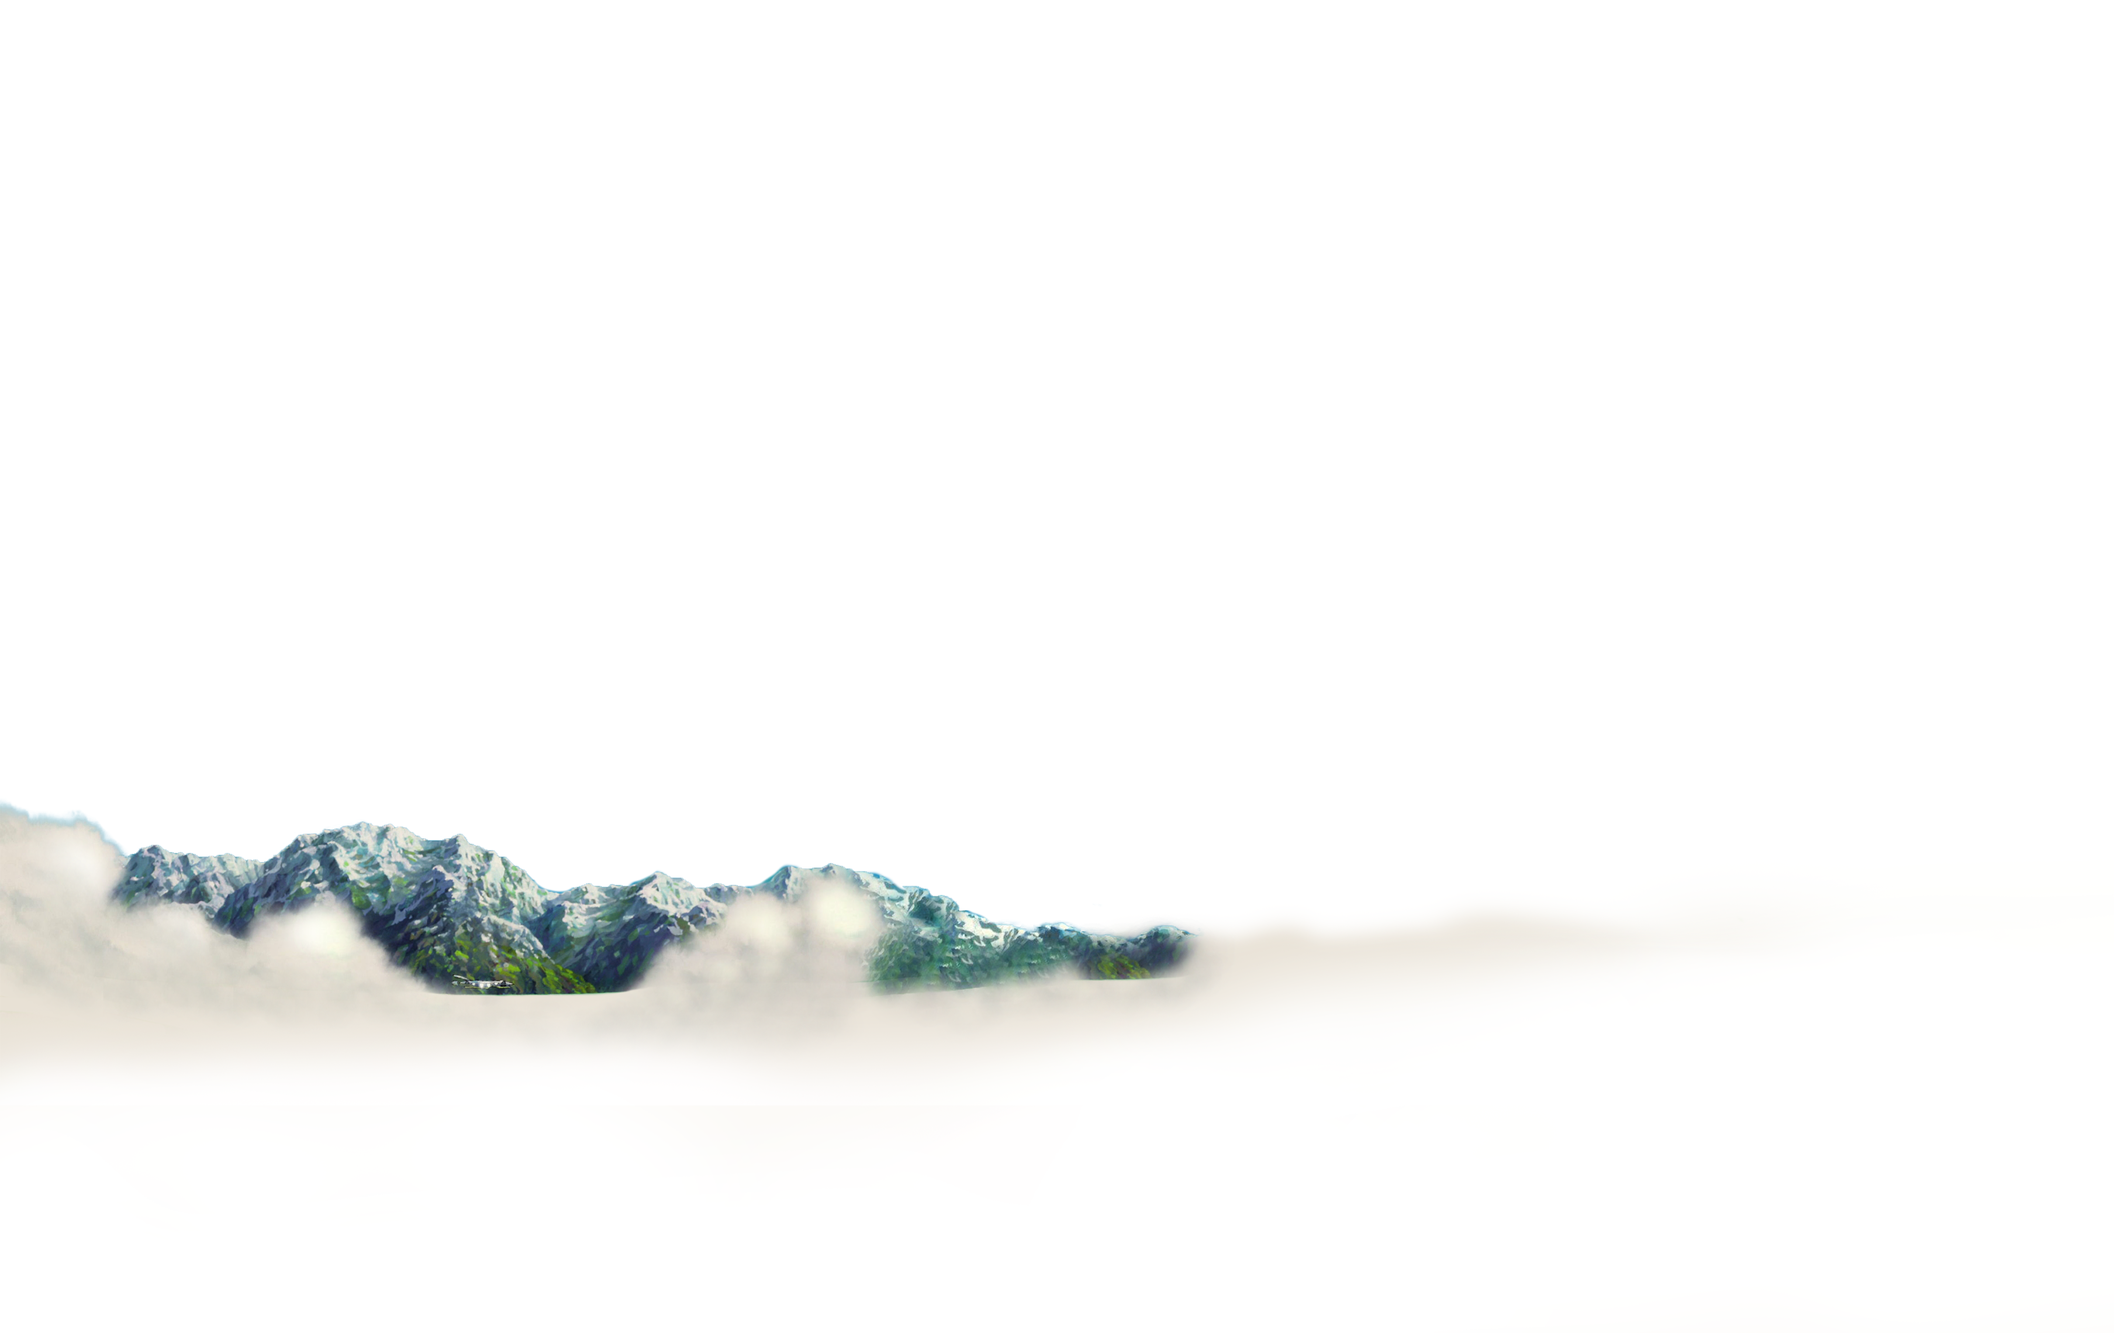
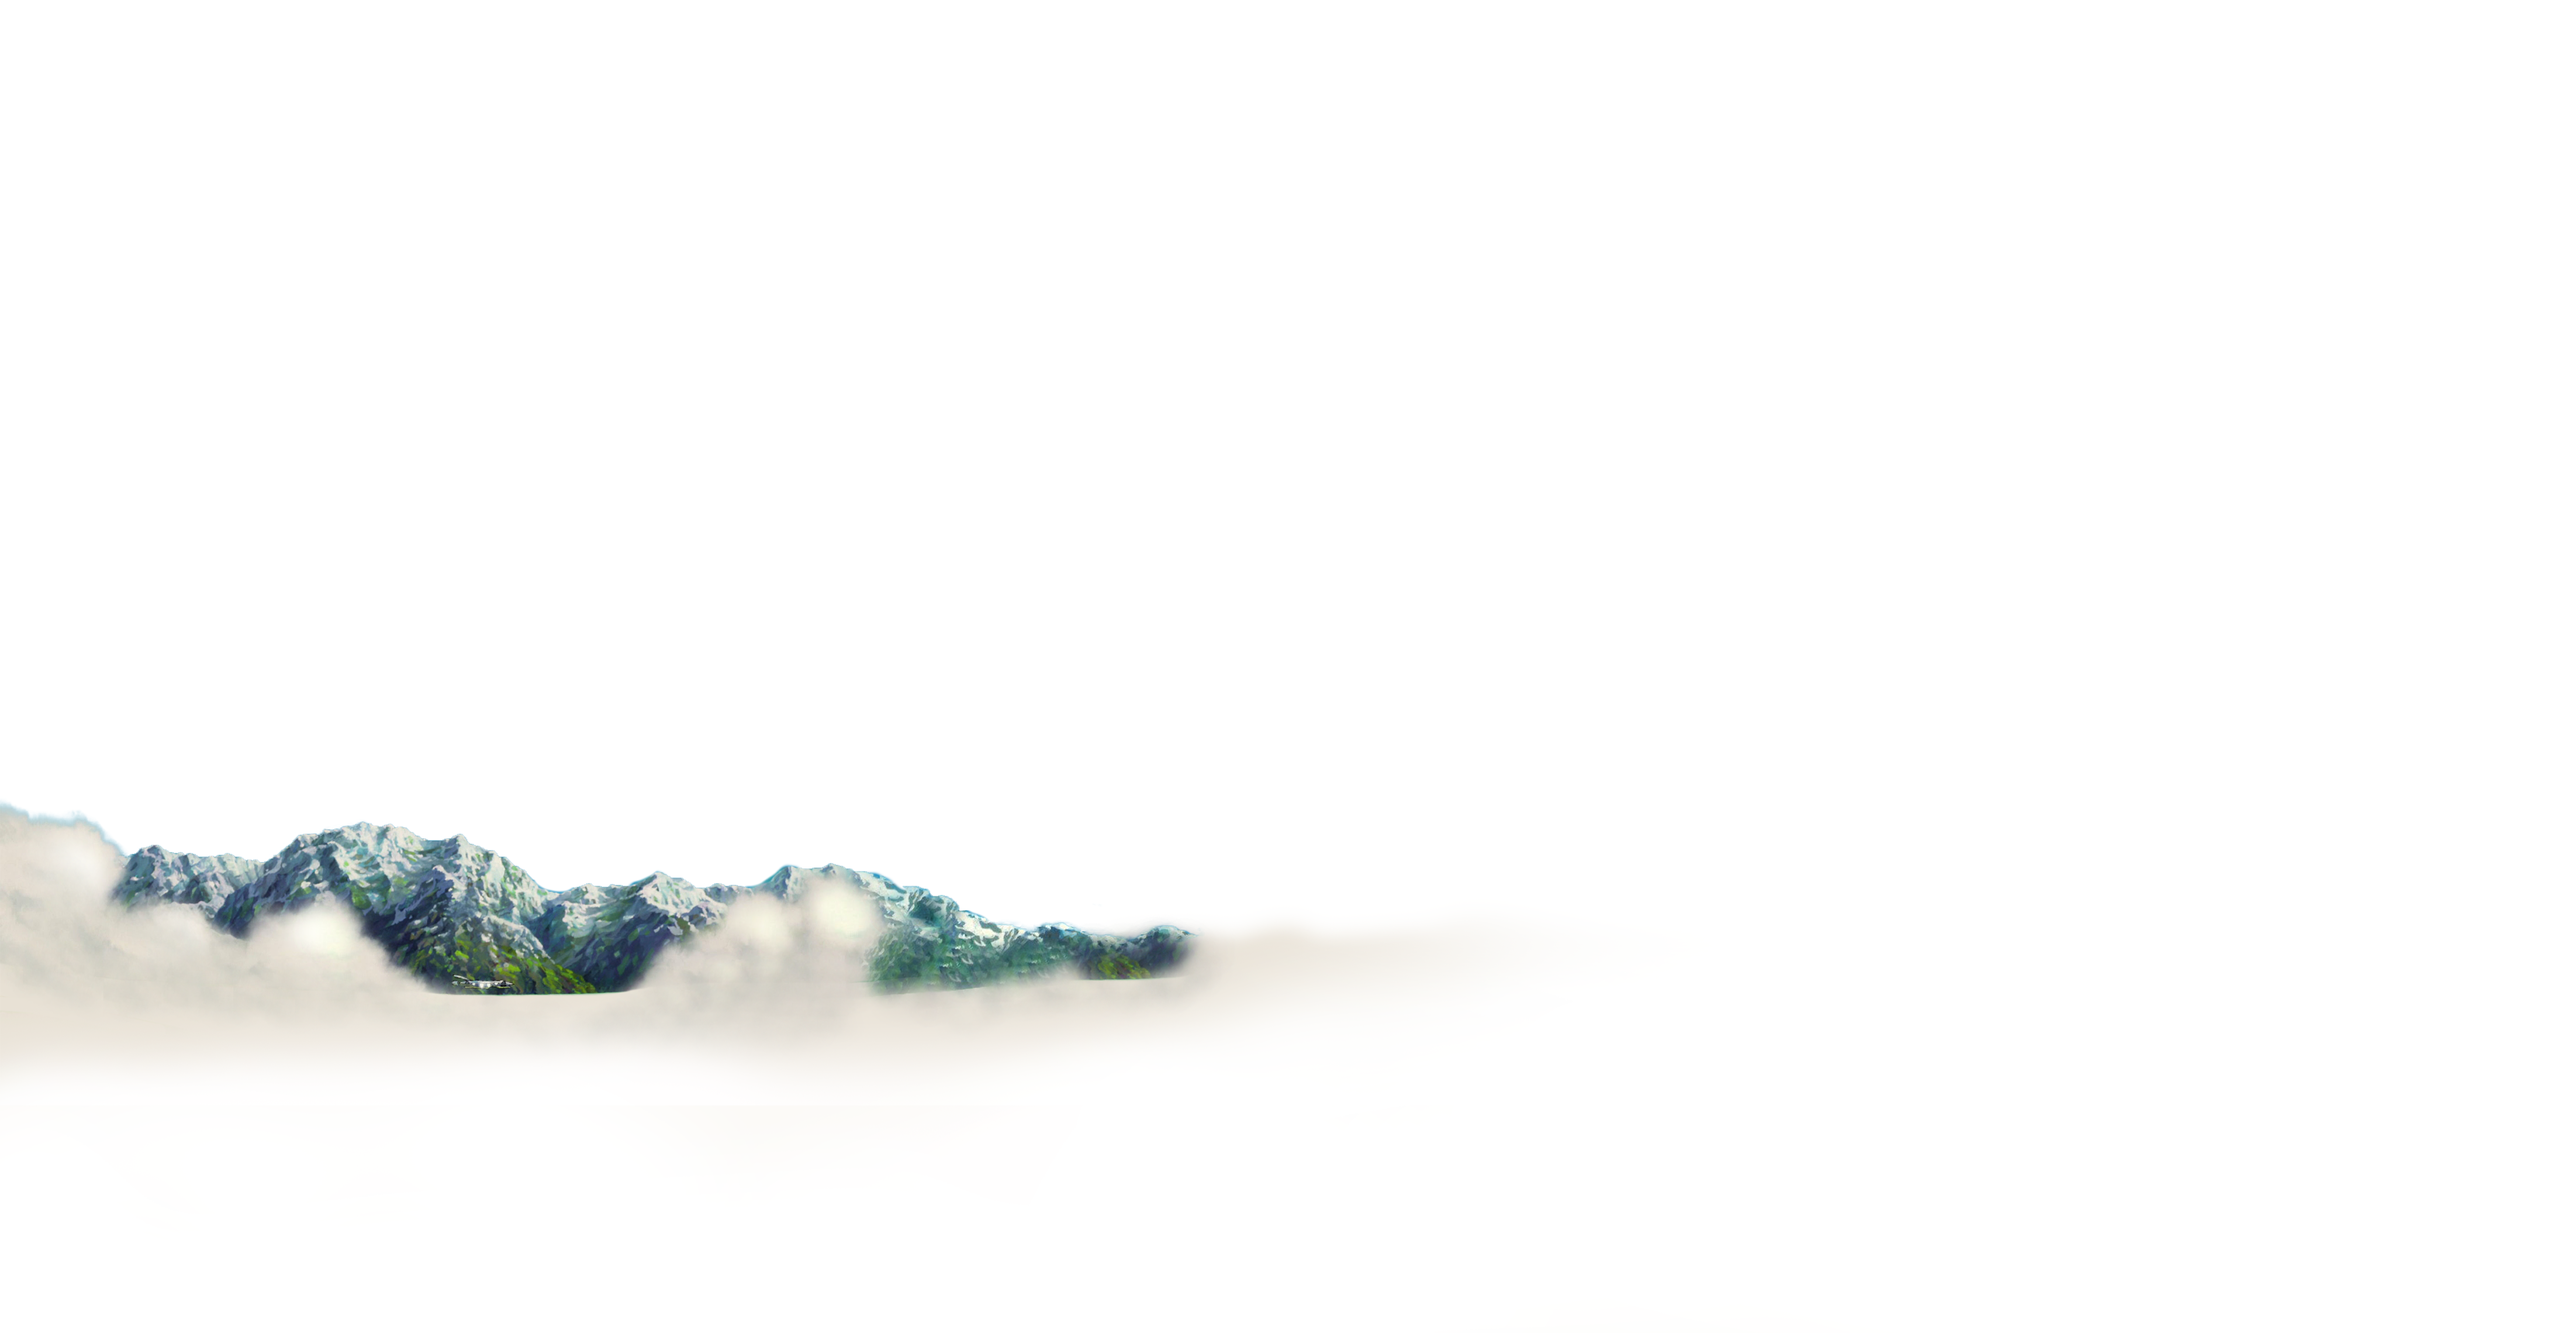
complete site responsive resize

Changed region(s): [[0.0312, 0.5933, 0.7478, 0.7806]]

diff --git a/portfolio/src/components/EducationStepper.tsx b/portfolio/src/components/EducationStepper.tsx
@@ -1,4 +1,4 @@
-import { Box, Stepper, Step, StepLabel, Typography, StepContent, Button, Paper, List } from "@mui/material";
+import { Box, Stepper, Step, StepLabel, Typography, StepContent, Button, Paper, List, Grid } from "@mui/material";
 import { useState } from "react";
 import { getDetails } from "../data/about";
 import FiberManualRecordIcon from '@mui/icons-material/FiberManualRecord';
@@ -78,36 +78,36 @@ function EducationStepper() {
                 })
                 : ""}
 
-              <Box sx={{ mb: 2 }}>
-                <Box style={{ display: "flex", justifyContent: "space-between", flexDirection: "row", alignItems: "center" }}>
-                  <Box>
-                    <Button
-                      className="gradient-background"
-                      variant="contained"
-                      onClick={index === about[0].education.length - 1 ? handleReset : handleNext}
-                      sx={{ mt: 1, mr: 1, color: "#fff", fontWeight: "200" }}
-                    >
-                      {index === about[0].education.length - 1 ? 'Reset' : 'Show Me More'}
-                    </Button>
-                    <Button
-                      disabled={index === 0}
-                      onClick={handleBack}
-                      sx={{ mt: 1, mr: 1, color: "#fff" }}
-                    >
-                      {index === about[0].education.length - 1 ? '' : 'Back'}
-                    </Button>
-                  </Box>
+              <Grid container xs={12} style={{ display: "flex", justifyContent: "space-between", flexDirection: "row", alignItems: "center", marginBottom: 10 }}>
+                <Grid item>
+                  <Button
+                    className="gradient-background"
+                    variant="contained"
+                    onClick={index === about[0].education.length - 1 ? handleReset : handleNext}
+                    sx={{ mt: 1, mr: 1, color: "#fff", fontWeight: "200"}}
+                  >
+                    {index === about[0].education.length - 1 ? 'Reset' : 'Show Me More'}
+                  </Button>
+                  <Button
+                    disabled={index === 0}
+                    onClick={handleBack}
+                    sx={{ mt: 1, mr: 1, color: "#fff" }}
+                  >
+                    {index === about[0].education.length - 1 ? '' : 'Back'}
+                  </Button>
+                </Grid>
 
+                <Grid item>
                   <Typography
-                    color="#fff"
                     sx={{
+                      color: { xs: "rgba(255, 255, 255, 0.3)", md: "#fff" },
                       paddingTop: "8px",
                       fontSize: "14px",
                       fontFamily: "ChakraPetch Light",
                     }}
                   >{step.year}</Typography>
-                </Box>
-              </Box>
+                </Grid>
+              </Grid>
             </StepContent>
           </Step>
         ))}

diff --git a/portfolio/src/routes/about.tsx b/portfolio/src/routes/about.tsx
@@ -97,7 +97,7 @@ function About() {
                           color="#fff"
                           sx={{
                             padding: "35px 0 0 0",
-                            fontSize: "70px",
+                            fontSize: { xs: "40px", md: "70px" },
                             float: "right",
                             fontFamily: "ChakraPetch Bold"
                           }}
@@ -136,17 +136,14 @@ function About() {
                           display="flex"
                           flexDirection="row"
                           alignItems="center"
-                          justifyContent="center"
-                          sx={{
-                            padding: "40px 5px 0",
-                          }}>
+                          justifyContent="center">
                           <Typography
                             color="#fff"
                             className="hover-underline-animation"
                             sx={{
-                              fontSize: "20px",
+                              fontSize: {xs:"15px",md:"20px"},
                               fontFamily: "ChakraPetch Regular",
-                              textAlign: "right"
+                              padding: { xs: "0 20px 0 20px", md: "10px" },
                             }}
                           >
                             <a style={{ color: "#fff", textDecoration: "none" }} href={`mailto:${about.email}`} target="_blank">
@@ -178,10 +175,10 @@ function About() {
                         padding: "2rem 0 0 1rem",
                       }}>
                       <Typography
-                        color="rgba(255, 255, 255, 0.1)"
                         sx={{
+                          color: { xs: "#fff", md: "rgba(255, 255, 255, 0.1)" },
                           textTransform: "uppercase",
-                          fontSize: "60px",
+                          fontSize: { xs: "40px", md: "60px" },
                           fontFamily: "ChakraPetch SemiBold",
                           transition: "0.5s",
                           "&:hover": {
@@ -209,10 +206,10 @@ function About() {
                         padding: "2rem 1rem 0 1rem",
                       }}>
                       <Typography
-                        color="rgba(255, 255, 255, 0.1)"
                         sx={{
+                          color: { xs: "#fff", md: "rgba(255, 255, 255, 0.1)" },
                           textTransform: "uppercase",
-                          fontSize: "60px",
+                          fontSize: { xs: "40px", md: "60px" },
                           fontFamily: "ChakraPetch SemiBold",
                           transition: "0.5s",
                           "&:hover": {

diff --git a/portfolio/src/routes/projectPage.tsx b/portfolio/src/routes/projectPage.tsx
@@ -24,18 +24,21 @@ function ProjectItem({ project }: { project: Project }) {
                     height: { xs: "40rem", md: "30rem" },
                 }}
             >
+                <Grid sx={{
+                    height: { xs: "12em", md: "auto" },
+                    width: { xs: "12em", md: "auto" },
+                }}>
+                    <Image
+                        src={`../../${project.image}`}
+                        style={{
+                            transitionDuration: "500ms",
+                            animation:
+                                "1500ms cubic-bezier(0.7, 0, 0.6, 1) 0s 1 normal none running materialize",
+                            borderRadius: "10px",
+                        }}
+                    />
+                </Grid>
 
-                <Image
-                    src={`../../${project.image}`}
-                    style={{
-                        transitionDuration: "500ms",
-                        animation:
-                            "1500ms cubic-bezier(0.7, 0, 0.6, 1) 0s 1 normal none running materialize",
-                        height: "18em",
-                        width: "18em",
-                        borderRadius: "10px",
-                    }}
-                />
                 <Container
                     sx={{
                         width: { md: "80rem" },
@@ -48,7 +51,8 @@ function ProjectItem({ project }: { project: Project }) {
                     <Typography
                         color="#fff"
                         sx={{
-                            fontSize: { xs: "45px", md: "60px" },
+                            fontSize: { xs: "40px", md: "60px" },
+                            padding: { xs: "10px", md: 0 },
                             float: "right",
                             fontFamily: "ChakraPetch Bold"
                         }}
@@ -72,14 +76,14 @@ function ProjectItem({ project }: { project: Project }) {
                         <Typography
                             color="#fff"
                             sx={{
-                                fontSize: "20px",
+                                fontSize: { xs: "18", md: "20px" },
                                 fontFamily: "ChakraPetch Regular",
                             }}
                         >
                             <Typography
                                 color="#8a8a8a"
                                 sx={{
-                                    fontSize: "18px",
+                                    fontSize: { xs: "16", md: "18px" },
                                     fontFamily: "ChakraPetch Light",
                                 }}
                             >

diff --git a/portfolio/src/components/ScrollBackButton.tsx b/portfolio/src/components/ScrollBackButton.tsx
@@ -8,14 +8,14 @@ function ScrollBackButton() {
             offset={9}
             speed={1}
             style={{
-                zIndex: 60
+                zIndex: 0
             }}
         >
-            <a href="/">
-                <Button sx={{ color: "#fff", position: "fixed", bottom: { xs: "120px", md: "60px" }, right: { xs: "30px", md: "50px" }, zIndex: "30" }}>
-                    <KeyboardDoubleArrowUpIcon sx={{ fontSize: "100px" }} />
+            {/* <a href="/">
+                <Button sx={{ color: "#fff", position: "fixed", bottom: { xs: "100px", sm: "60px" }, right: { xs: "30px", md: "50px" } }}>
+                    <KeyboardDoubleArrowUpIcon sx={{ fontSize: "100px", transition:"0.5s", "&:hover": {fontSize:"120px", transition:"0.5s"} }} />
                 </Button>
-            </a>
+            </a> */}
         </ParallaxLayer>
     );
 }

diff --git a/portfolio/src/chapters/SixthChapter.tsx b/portfolio/src/chapters/SixthChapter.tsx
@@ -10,7 +10,7 @@ function SixthChapter() {
                 justifyContent: "center",
                 alignItems: "center",
                 flexDirection: "row",
-                zIndex: 6,
+                zIndex: 1
             }}>
             <Typography
                 className="title"
@@ -19,10 +19,9 @@ function SixthChapter() {
                     fontFamily: "Ghibli",
                     textTransform: "none",
                     fontSize: { xs: "20px", md: "30px" },
-                    textAlign: { md: "center", xl: "right" },
+                    textAlign: "center",
                     display: "inline-block",
-                    paddingBottom: "10em",
-                    paddingLeft: {sm:0, md:"2em",xl:"15em"}
+                    padding: "60px",
                 }}
             >
                 If you would like to learn more{" "}

diff --git a/portfolio/src/App.css b/portfolio/src/App.css
@@ -52,34 +52,22 @@ body::-webkit-scrollbar {
   }
 }
 
-/* #shadow {
-  position: relative;
-  margin-top: 50em;
-  padding-top: 2em;
-  width: 300px;
-  height: 100px;
-  left: -60px;
-  margin-left: 250px;
-  border-radius: 50%;
-  background-color: rgba(0, 0, 0, 0.233);
-  filter: blur(3rem);
-  animation: xAxis 4s infinite ease-in-out;
-}
-
-#shadow::after {
-  animation: yAxis 4s infinite ease-in-out;
-} */
-
-
 #castle {
   cursor: move;
   display: block;
-  width: 23em;
+  width: 30em;
+  padding-left: 2em;
   animation: xAxis 4s infinite ease-in-out;
 }
 
 #castle::after {
   animation: yAxis 4s infinite ease-in-out;
+}
+
+@media screen and (max-width:1024px) {
+  #castle {
+    width: 16em;
+  }
 }
 
 @keyframes move-twinkle-back {

diff --git a/portfolio/src/components/Castle.tsx b/portfolio/src/components/Castle.tsx
@@ -5,16 +5,15 @@ import castle_picture from "/castlebody.png";
 function Castle() {
   return (
     <ParallaxLayer
-      offset={9.2}
-      factor={5}
+      offset={8.6}
       speed={0.3}
       style={{
         backgroundColor: "transparent",
+        zIndex: 2
       }}
     >
       <Grid sx={{
-        paddingLeft: { sm: "2em", md: "5em", lg: "20em" },
-        marginTop: { xs: "-45em", md: "-45em", lg: "-45em", xl: "-2em" }
+        paddingLeft: { sm: "2em", md: "3em", lg: "20em" },
       }}>
         <img id="castle" src={castle_picture} />
       </Grid>

diff --git a/portfolio/src/routes/portfolio.tsx b/portfolio/src/routes/portfolio.tsx
@@ -70,7 +70,7 @@ function Portfolio() {
                           width: "auto",
                           border: "1px solid transparent",
                           textTransform: "none",
-                          fontSize: { xs: "40px", md: "50px" },
+                          fontSize: { xs: "35px", md: "50px" },
                           fontFamily: "ChakraPetch Bold",
                           transition: "0.5s",
                           borderRadius: "5px",

diff --git a/portfolio/src/components/OrionSpaceShuttle.tsx b/portfolio/src/components/OrionSpaceShuttle.tsx
@@ -8,7 +8,7 @@ function OrionSpaceShuttle() {
             offset={1.9999}
             speed={2}
             style={{
-                zIndex: 50,
+                zIndex: 6,
             }}
         >
             <Grid sx={{

diff --git a/portfolio/src/components/JamesWebb.tsx b/portfolio/src/components/JamesWebb.tsx
@@ -8,7 +8,7 @@ function JamesWebb() {
             offset={3}
             speed={2}
             style={{
-                zIndex: 50,
+                zIndex: 6,
             }}
         >
             <Grid sx={{

diff --git a/portfolio/src/chapters/ForthChapter.tsx b/portfolio/src/chapters/ForthChapter.tsx
@@ -10,7 +10,6 @@ function FirstChapter() {
         justifyContent: "center",
         textAlign: "center",
         alignItems: "center",
-        zIndex: 6,
       }}>
       <div>
         <Typography
